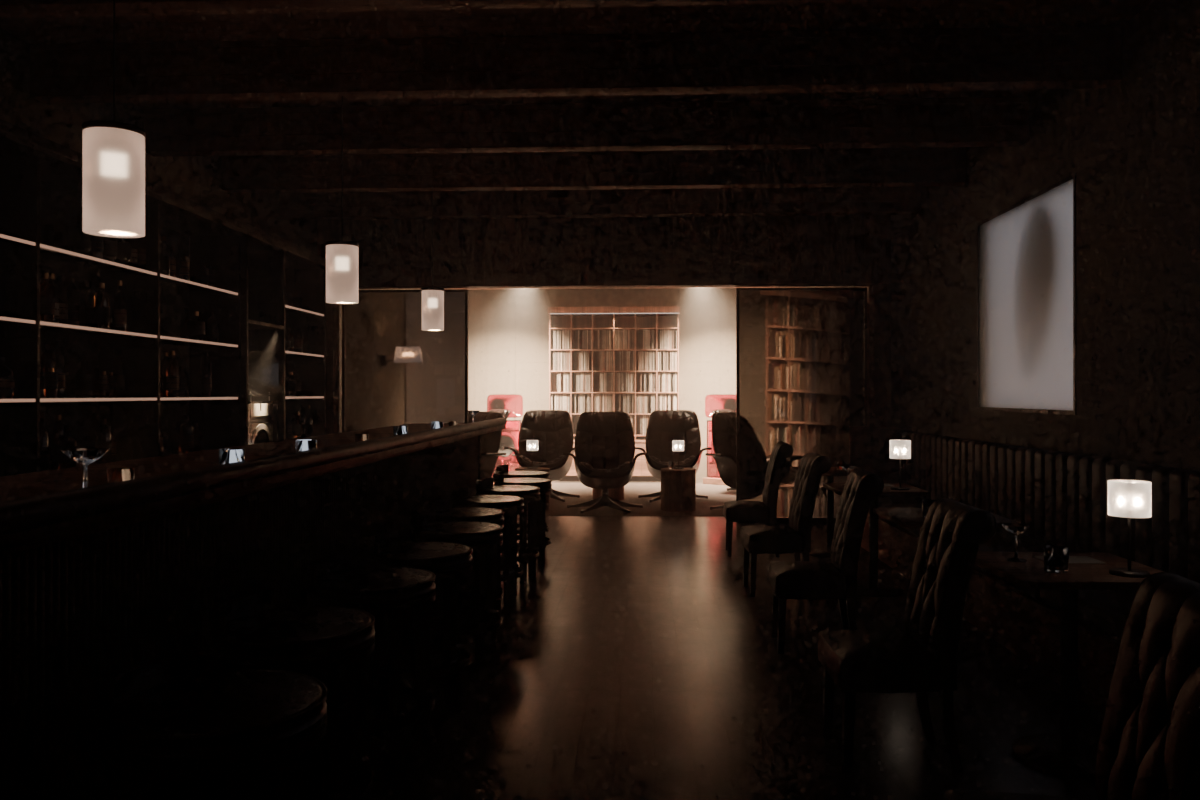
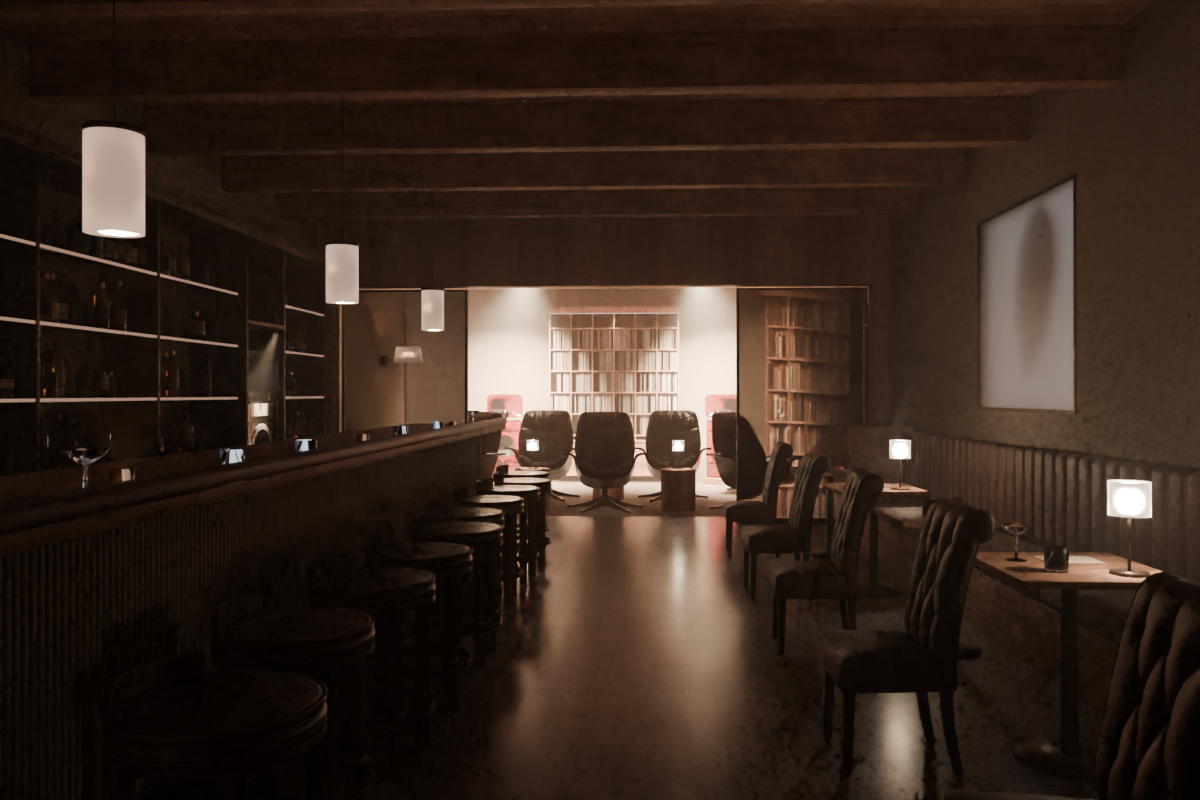
Planet loft: the street and bar review frames again, their sources lifted (medians 21.5 and 27.4)
Claude-Session: https://claude.ai/code/session_01RtMFkXqqDHGwCrM5twxhtt

diff --git a/spinoffs/barkhorn/planet/loft/NOTES.md b/spinoffs/barkhorn/planet/loft/NOTES.md
@@ -40,3 +40,4 @@ the niches' glow were warmed (they read blue-white at 3300 K).
 | all | (the review set) | | | | the review street frame at 1200 fell from a median of 30 to 6: the plain lamp's frosted drum, as rough transmission, blocked its bulb but for caustics (Bell had lit the room and the haze directly): the drum casts no shadow now; the street and the bar frames rendered again |
 | review | the owner's review set, 1200 x 800, 256 samples | bar 5.5 (one critic, old protocol), listening 5.25, street 4.75 | | | bar-p4-1200 (before the drum fix), listening-p9-1200, street-p7-1200 (median 10.5, darker than its judged proof at 30, the haze veil Bell lit behind the glass gone) |
 | review | street and bar again (the lead: past "hard to see") | | | | the sources lifted, not the grade (lift_shot.py): street pendants, lamps, records, candles x3.6, the sconce x4.8, the shelf edges x0.5 (calibration at 24 samples: median 20.9 at x3); bar pendants, lamps, candles x4, records x1.5, the sconce x2.5 (calibration: 27.7, no squares in the tubes) |
+| review | street and bar at 1200, lifted | | | | street median 21.5 (0.5 under the floor), clip 0.17 %; bar 27.4, clip 0.14 %, no squares in the tubes, pools on the bar top and tables |
